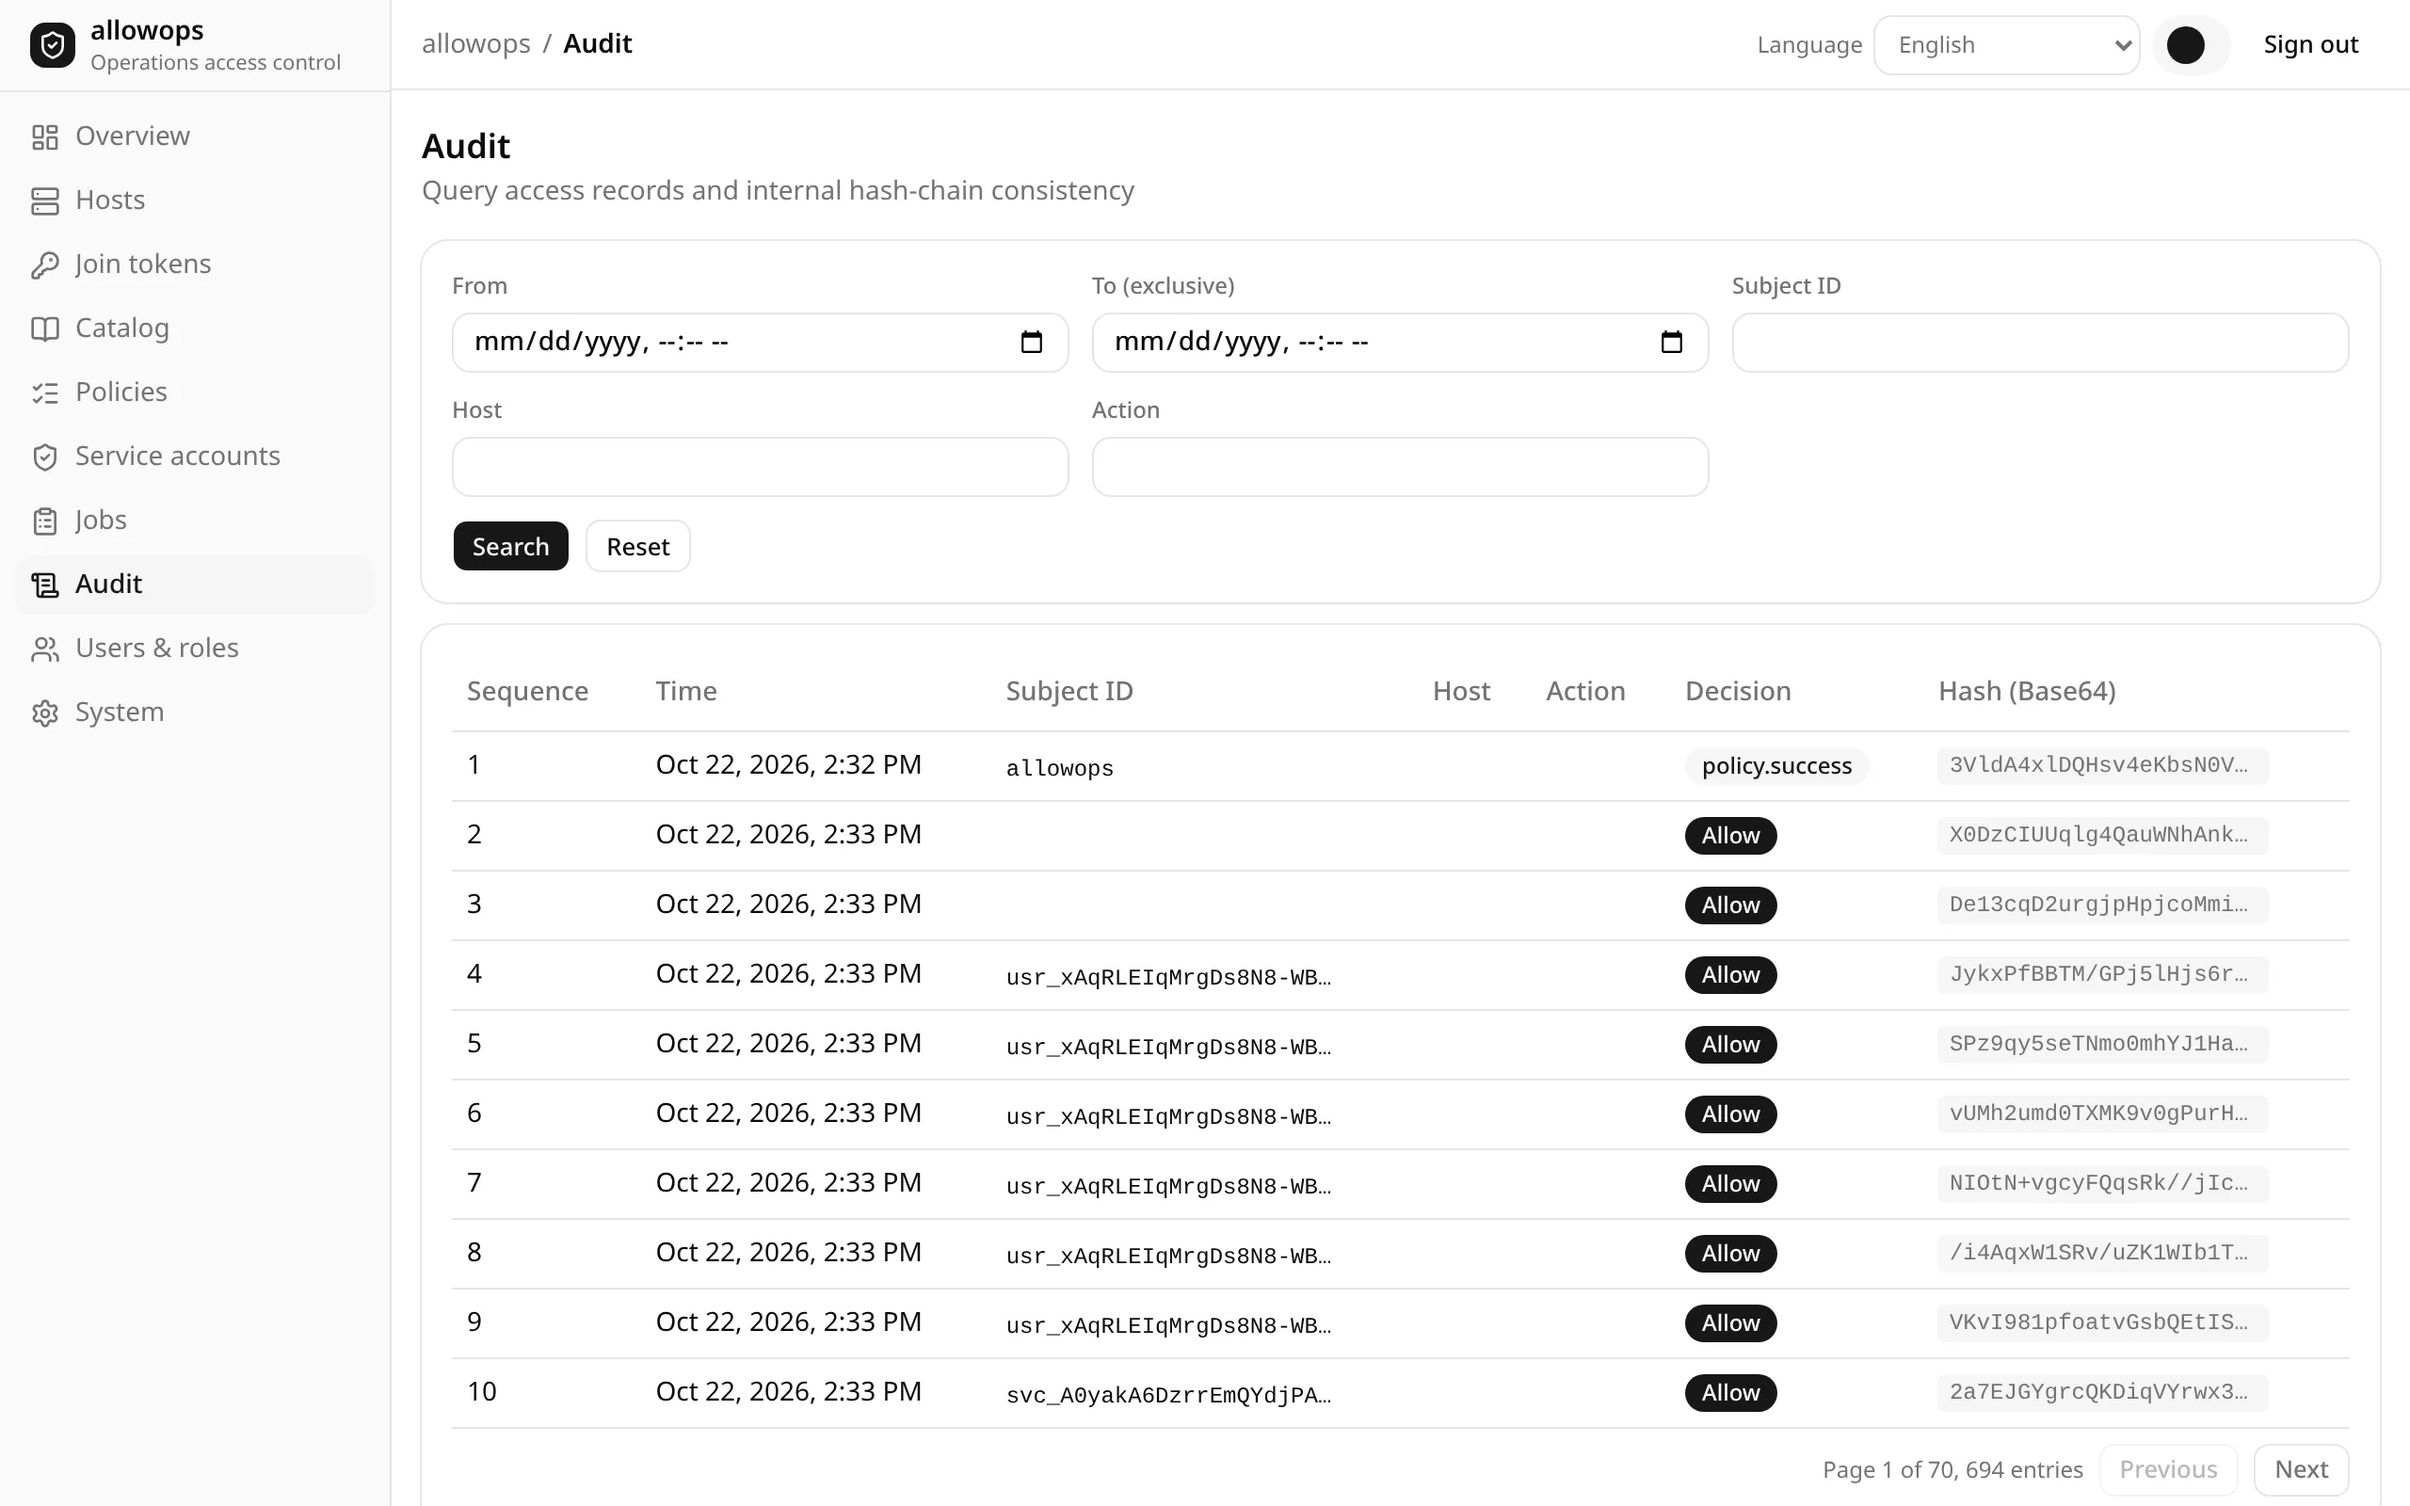
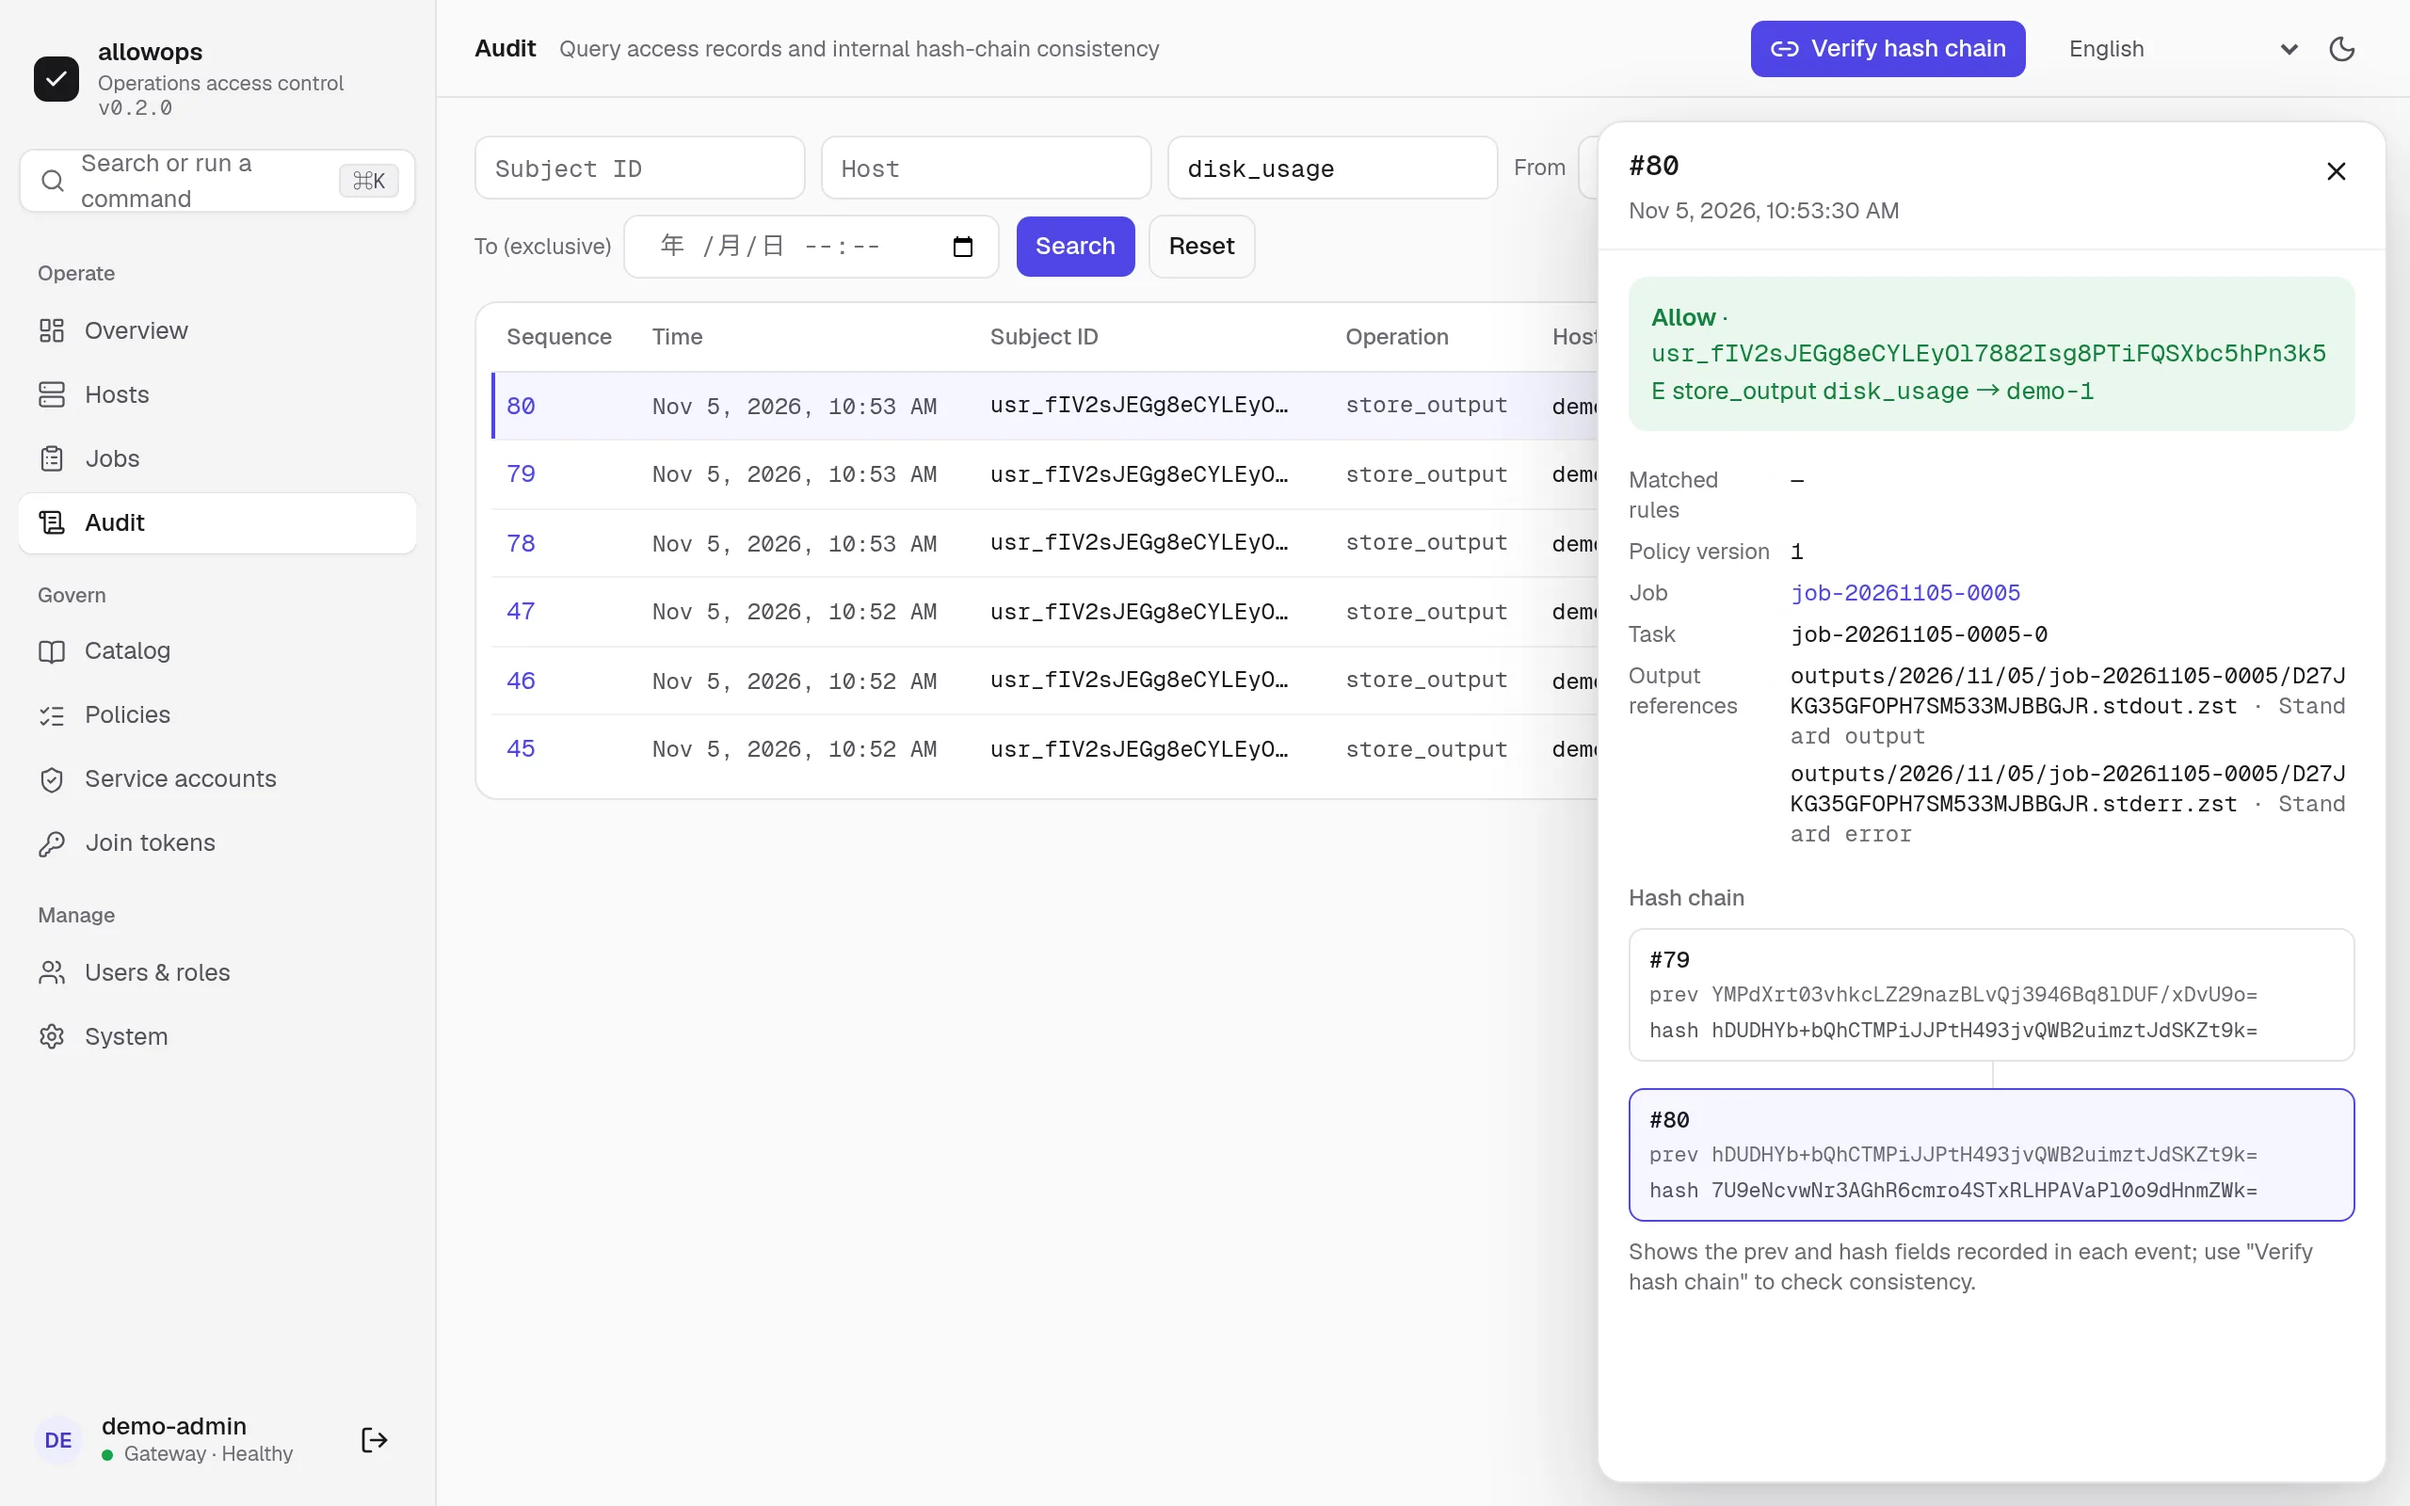
docs: describe the redesigned console in release notes, site and README
Add an Unreleased section to CHANGELOG.md for the console redesign (#27).
Replace the site console screenshots with captures of the redesigned console
from a clean local Compose environment (demo-1/2/3 only), update the captions
to match, and show the job screenshot in both READMEs.

diff --git a/CHANGELOG.md b/CHANGELOG.md
@@ -1,5 +1,47 @@
 # Release notes
 
+## Unreleased
+
+Changes on `main` since v0.2.0. They are not in a release yet.
+
+### New
+
+- The web console is redesigned (#27). The design handoff and prototypes are
+  in [docs/console-redesign/](docs/console-redesign/README.md). The change is
+  frontend only: no API, schema, or policy change, and no upgrade step.
+  - A complete dark theme and self-hosted Geist and Geist Mono fonts. The
+    console loads no external resources.
+  - The sidebar groups pages into run, govern, and manage, and shows the
+    current user and gateway health. Ctrl+K or ⌘K opens a command palette that
+    jumps to a host by name, to a page, or to the unlabeled and outdated host
+    filters.
+  - Hosts: hostname search and label selector input, status filters for online,
+    offline, unlabeled, and outdated hosts, and a detail side panel that keeps
+    the list in view. Selected hosts can get labels through a per-host diff
+    preview that is applied with the expected revisions, or be copied as MCP
+    `targets` with `expected_count`.
+  - Jobs: list and detail side by side, task progress per job, and an output
+    viewer with stdout and stderr, steps of composite actions, and paged reads.
+  - Policies: simulation for all subjects or for one subject, operation,
+    action, and selector, with each host's decision before and after the change
+    and the matching rules. Version history and rollback use the same
+    simulate-and-save flow.
+  - Catalog: envelope size, expiry, the catalog version loaded on hosts, a risk
+    filter for actions, and a copyable publish command.
+  - Service accounts show a running-job indicator. Join tokens show when they
+    were created. The one-time secret dialogs list the next steps.
+  - Audit: matched rules in the table, and an event side panel with the
+    previous, current, and next hash as recorded.
+  - Overview: a summary built from gateway numbers, and a list of items that
+    need attention, including unlabeled hosts, agents older than the gateway,
+    and a newer gateway release.
+
+### Fixes
+
+- The console reads the output of composite actions step by step. Before,
+  opening the output of a composite action failed with `INVALID_OUTPUT_STEP`.
+- The sidebar shows the username when a directory user has no display name.
+
 ## v0.2.0 — 2026-11-03 (pre-release)
 
 Adds JVM diagnostics, log queries, monitoring and SQL actions, gateway inventory

diff --git a/README.md b/README.md
@@ -27,6 +27,8 @@ paths, timeouts, output limits, signatures and catalog versions are checked on
 the host. Attribute-based access control (ABAC) uses gateway-managed authorization
 labels. Unlabeled hosts reject execution.
 
+![The allowops console: the job list beside the selected job's per-host results](site/public/img/console/en/job.webp)
+
 ## Quick start
 
 Use a Linux amd64 checkout with Docker Compose, Go 1.27.3, OpenSSL, Git and

diff --git a/README.zh-CN.md b/README.zh-CN.md
@@ -25,6 +25,8 @@ ALPN（应用层协议协商）。命令使用固定参数数组。
 ABAC（基于属性的访问控制）只使用网关管理的授权标签。
 没有授权标签的主机拒绝执行动作。
 
+![allowops 控制台：job 列表和选中 job 的每台主机结果](site/public/img/console/zh/job.webp)
+
 ## 快速开始
 
 使用 Linux amd64 检出目录，准备 Docker Compose、Go 1.27.3、OpenSSL、Git
